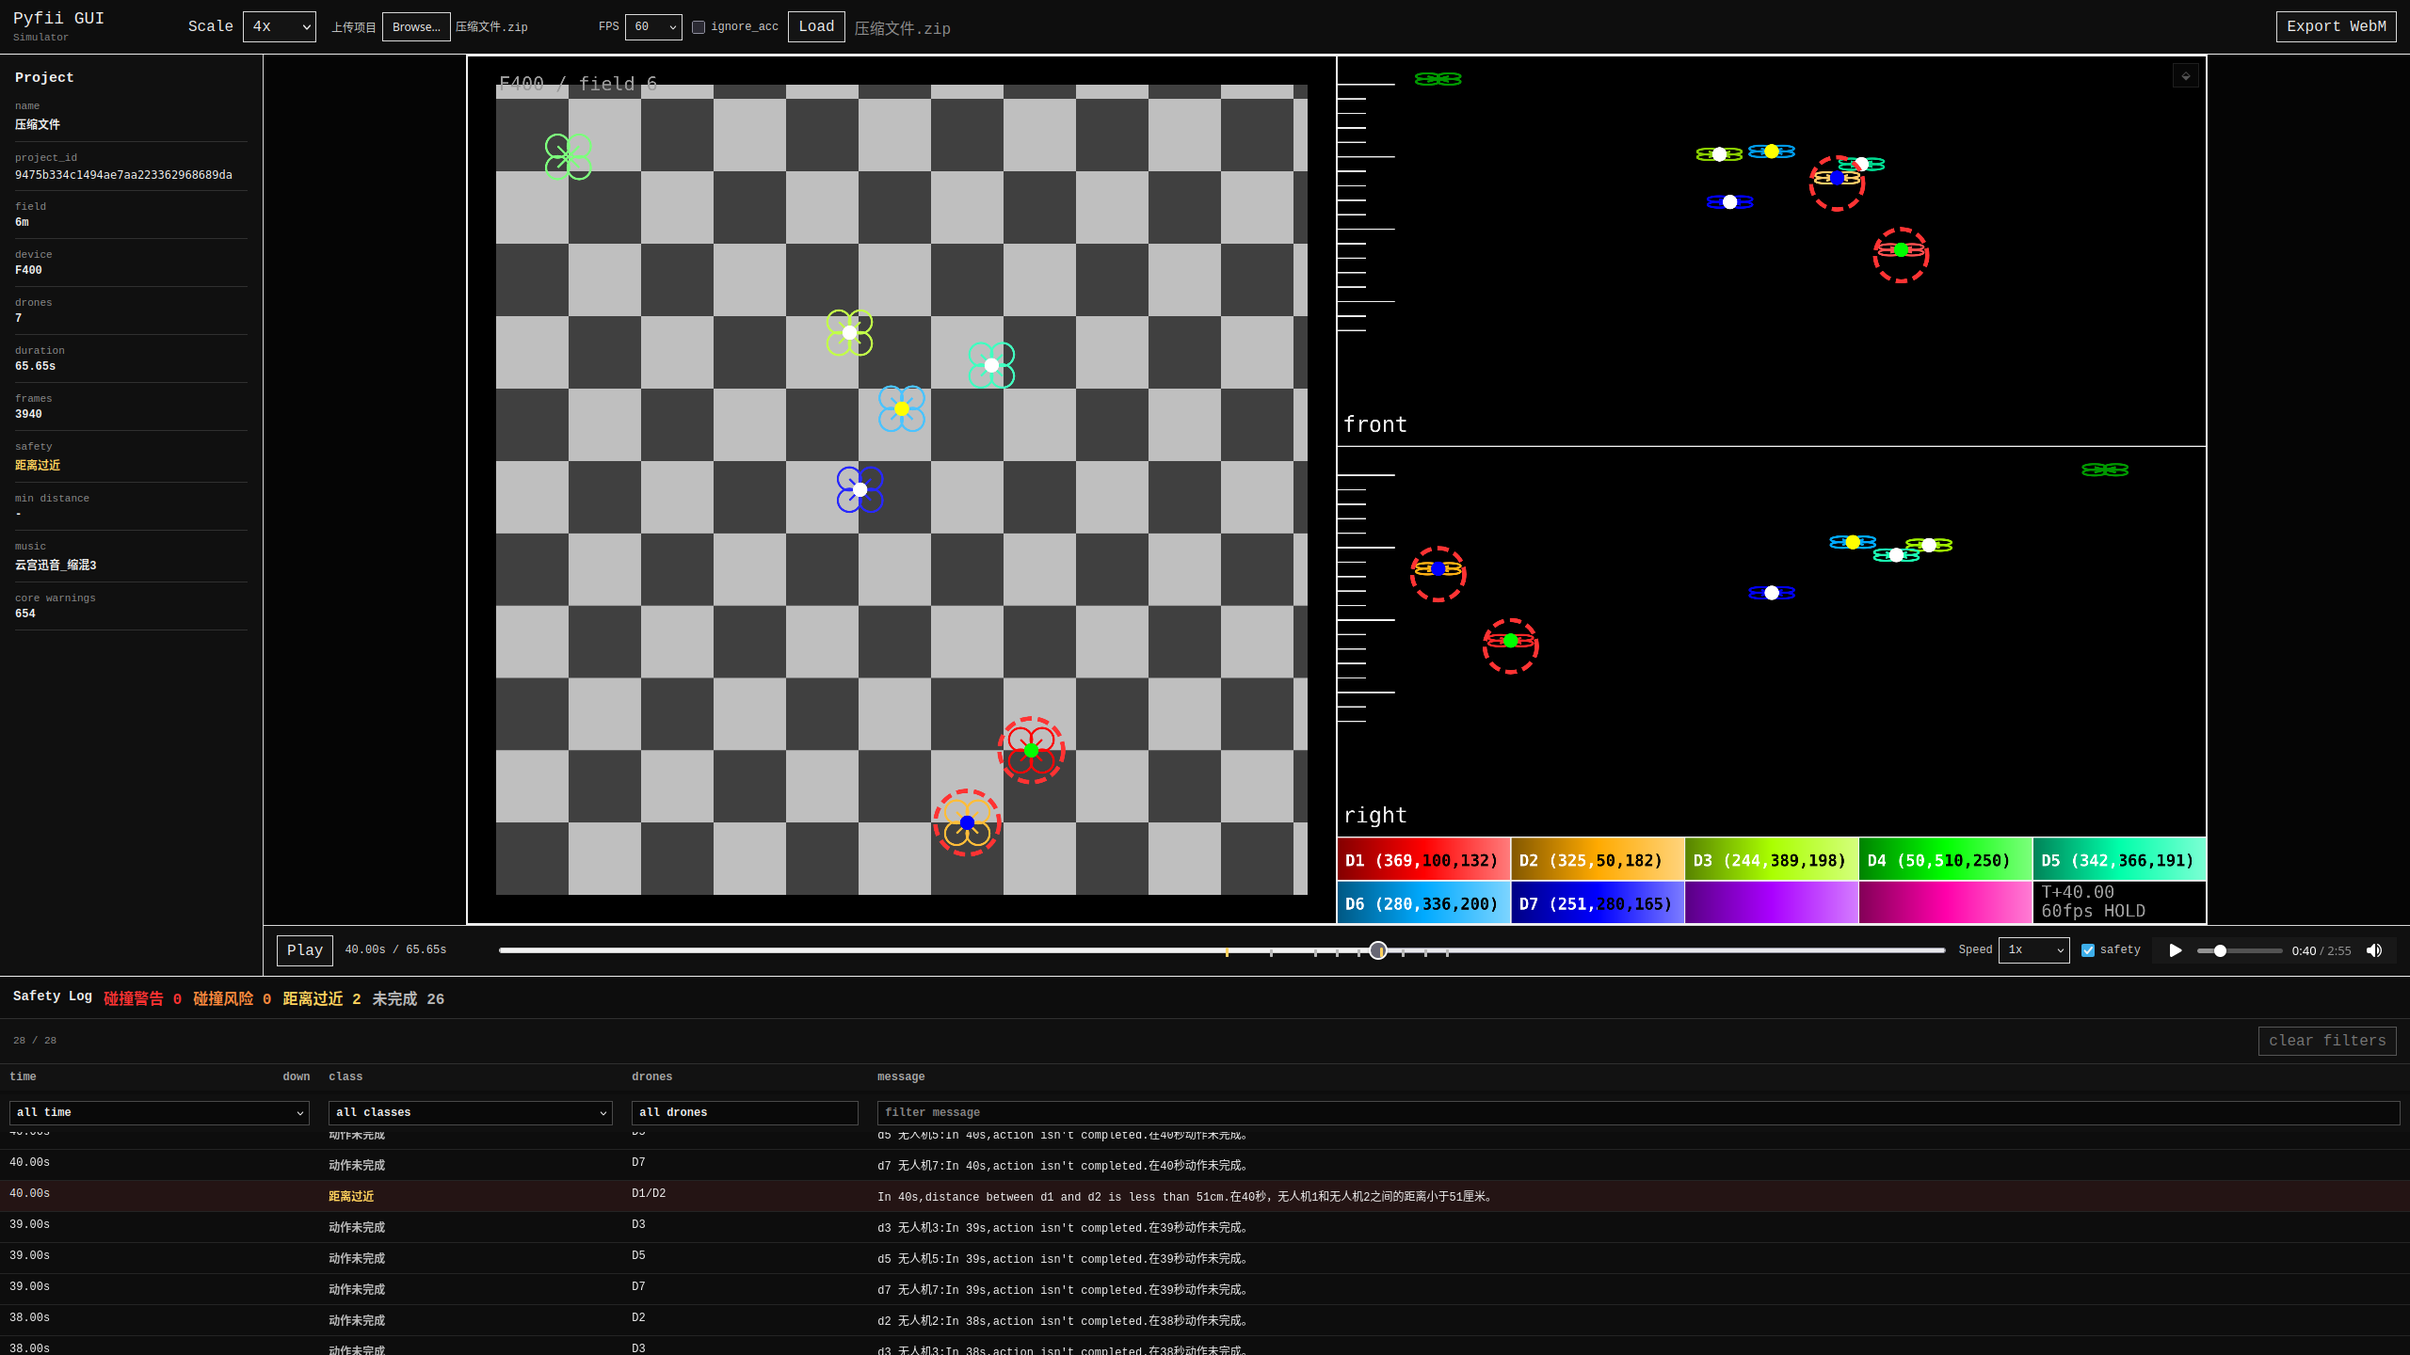
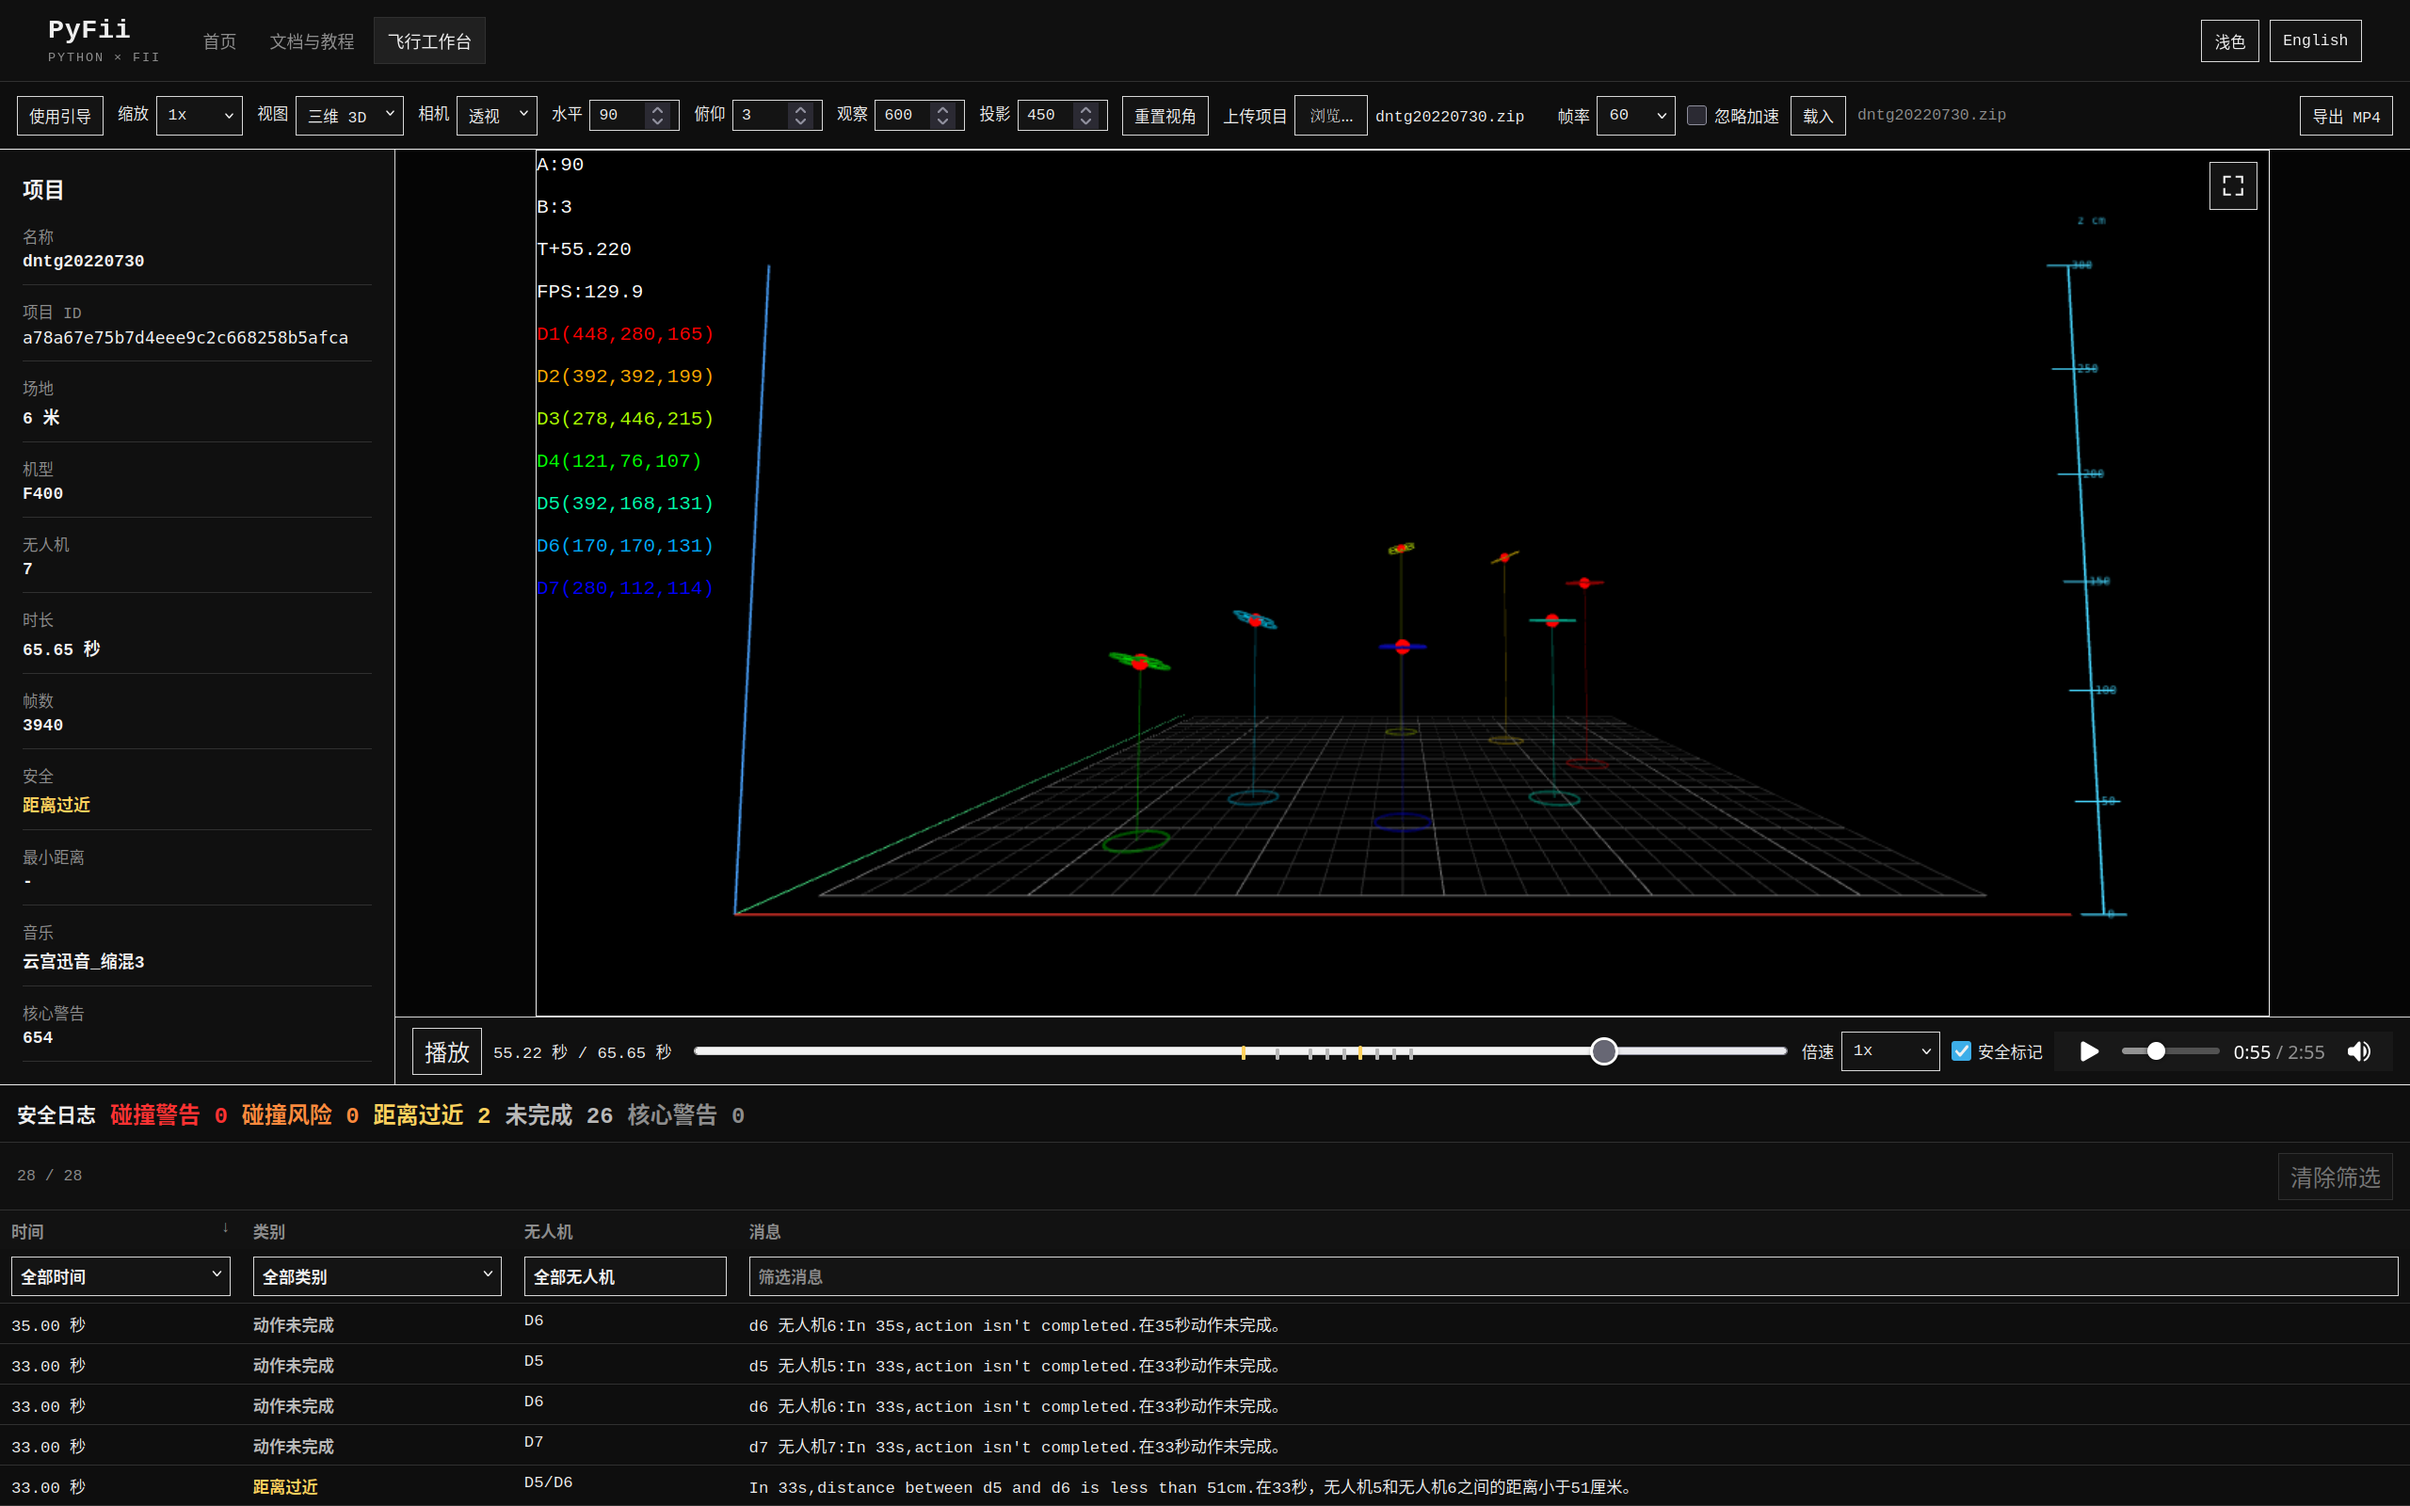
docs: refresh project overview and GUI screenshot

diff --git a/README.md b/README.md
@@ -1,111 +1,156 @@
-# Pyfii
+# PyFii
 
-## 简介
+PyFii 是一个用 Python 编排、生成和检查 Fii 无人机编队工程的开源项目。它把原本需要逐块拖动的动作、灯光和时间轴编排写成可复用的 Python 脚本，并提供 `.fii` 工程读写、轨迹解析、安全检查、二维/三维模拟和视频导出。
 
-这个库的功能是可以让我们用 python 写 Fii 的无人机程序，以解决原软件无运算能力，无循环模块，一块块拖太烦等问题。此外，这个库有三视图模拟飞行的功能，模拟飞行更方便观看。
+项目由两个相互独立的部分组成：
 
-### Pyfii GUI（网页版）
+- `src/pyfii/`：可单独安装和使用的 Python core。
+- `apps/pyfii-gui/`：建立在 core 之上的 Web GUI，不把 FastAPI、Vue 等依赖引入 core。
 
-`apps/pyfii-gui/` 是 pyfii 的 Web GUI，已成功部署上线：**[pyfii.cn](https://pyfii.cn/)**
+## 在线使用
 
-首页是 PyFii 门户；统一文档与教程中心位于 `/docs`，飞行工作台位于 `/studio`。
+**[pyfii.cn](https://pyfii.cn/)** 已部署当前仓库的最新 GUI 版本，不安装本地环境也可以阅读文档或使用飞行工作台。
 
-![Pyfii GUI 截图](docs/images/pyfii-gui-screenshot.png)
+- [首页](https://pyfii.cn/)：了解项目、观看视频教程并进入各项功能。
+- [文档与教程](https://pyfii.cn/docs)：浏览仓库 `doc/` 中的完整文档。
+- [飞行工作台](https://pyfii.cn/studio)：上传完整 Fii 工程 zip，检查并预览编队飞行。
+- [B 站视频教程](https://www.bilibili.com/video/BV1Ms4y1F7fM/)：通过实际演示了解基本操作。
 
-支持功能：
+在线工作台支持：
 
-- **二维三视图模拟**：top / front / right 三个视角实时预览无人机编队飞行轨迹
-- **加速度感知模拟**：模拟基于实际加速度数据，真实还原无人机飞行动态
-- **清晰的 error / warning 展示**：距离、动作未完成和其他 core warning 分开展示，支持按列筛选和排序，点击带时间事件可跳转
-- 门户页提供项目简介、GitHub 入口和 B 站视频教程；备案信息保持部署配置为空时不显示
-- 上传 Fii 项目 zip，由 FastAPI 后端调用 pyfii core 完成轨迹解析和安全分析，浏览器提供可视化预览
-- 首次使用 Guide，以及直接复用 `doc/` 下全部 Markdown 源的文档、教程、编舞与 Agent、工程研究静态页
-- 复用 core `FiiRender2D/FiiRender3D` 的后端 MP4 导出
+- 二维三视图和 WebGL 三维模拟，包含加速度投影、机身倾斜和连续航向旋转。
+- 根据手机、平板和桌面设备调整布局，并在移动端保留三维坐标信息。
+- 显示确定的工程加载进度，并提供首次使用引导和全屏预览。
+- 区分会阻止操作的 error 与不阻止预览的 warning；未拼接积木等 core warning 会直接展示。
+- 在浏览器中完成交互预览，由后端复用 core 渲染器导出 MP4；工程包含音乐时使用 FFmpeg 合并音频。
 
-GUI 作为 pyfii core 的上层应用，依赖方向为：
+![PyFii GUI 截图](docs/images/pyfii-gui-screenshot.png)
 
-```text
-pyfii-gui -> pyfii core
+GUI 的本地开发、生产依赖和部署配置见 [apps/pyfii-gui/README.md](apps/pyfii-gui/README.md)。
+
+## 主要能力
+
+- 使用 Python API 编排 F400、F600 等 Fii 无人机的动作、灯光和时间轴。
+- 生成 Fii 工程，也可以读回 `.fii` 文件和动作组 XML。
+- 通过 `DroneTrack` 统一承载解析后的轨迹、灯光和飞行信息。
+- 使用 `FiiRender2D`、`FiiRender3D` 和 `FiiRenderPanorama` 预览或保存画面。
+- 保留原有 `show()`、`fiiRead()` 等兼容入口，现有脚本无需立即迁移。
+- 在预览和导出前检查距离、动作完整性等安全问题，并分别报告 error 与 warning。
+
+模拟与安全检查用于编排复核，不能替代真机测试、现场安全评估和 Fii 官方软件的最终检查。
+
+## 快速开始
+
+### 安装 core
+
+安装已发布版本：
+
+```bash
+python -m pip install pyfii
 ```
 
-FastAPI、Vue、Vite 等 GUI 依赖都放在 `apps/pyfii-gui/` 下，不放进 `src/pyfii/`。详细启动和部署说明见 [apps/pyfii-gui/README.md](apps/pyfii-gui/README.md)。
+从源码使用当前版本：
 
-## 安装
-1. 使用 pip install 安装
+```bash
+git clone https://github.com/Kevin0412/pyfii.git
+cd pyfii
+python -m pip install -e .
+```
 
-    在命令行输入
+仓库采用 `src/` 布局。开发时使用 editable install，可以确保依赖、导入路径和版本元数据正确。
 
-        pip install pyfii
+### 编写并预览一个工程
 
-2. 下载源代码
+```python
+import pyfii as pf
 
-    在命令行输入
+drone = pf.Drone(60, 60, config=pf.drone_config_4m)
+drone.takeoff(1, 100)
+drone.inittime(4)
+drone.VelXY(100, 200)
+drone.move2(120, 120, 100)
+drone.inittime(8)
+drone.land()
+drone.end()
 
-        git clone https://github.com/Kevin0412/pyfii.git
-        cd pyfii
-        python -m pip install -e .
+project = "output/demo"
+pf.Fii(project, [drone]).save()
 
-    仓库使用 `src/` 布局，不要只复制仓库中的某个文件夹；使用 editable install 才能确保依赖和版本元数据正确。
+track = pf.from_fii(project)
+pf.show(track)
+```
 
-## 文档索引
+完整的动作、灯光、工程生成和渲染接口见 [PyFii core 文档](doc/doc_zh_CN.md)。
 
-- [文档与教程中心](doc/pyfii_docs.md)：普通用户从这里开始。
-- [PyFii core 文档](doc/doc_zh_CN.md)：动作、工程、读取和渲染接口。
+### 本地启动 GUI
+
+Linux 下可从仓库根目录一键安装依赖并启动前后端：
+
+```bash
+./apps/pyfii-gui/start.sh
+```
+
+依赖已经安装时可以跳过安装：
+
+```bash
+./apps/pyfii-gui/start.sh --no-install
+```
+
+默认前端地址是 `http://localhost:5173`，后端地址是 `http://localhost:8000`。每次运行的前后端日志会分别保存到 `apps/pyfii-gui/logs/<启动时间>-<进程号>/`，每行包含本地时间和时区。
+
+## 文档
+
+- [文档与教程中心](doc/pyfii_docs.md)：普通用户的阅读入口。
+- [安装教程](doc/tutorial/install.md)：Python、编辑器与 PyFii 安装。
+- [脚本模式教程](doc/tutorial/script_mode.md)：从动作脚本到 Fii 工程。
+- [PyFii core 文档](doc/doc_zh_CN.md)：动作、灯光、工程、读取与渲染 API。
 - [GUI 使用引导](doc/pyfii_gui_guide.md)：上传、warning、预览和视频导出。
-- [GUI 架构与部署](doc/pyfii_gui.md)：开发、配置和生产部署。
-- [内部原理](doc/tutorial/principle.md)：面向维护或复刻项目的开发者。
-- [仓库完整文档索引](doc/INDEX.md)：编舞与 Agent、工程研究及全部专题资料。
+- [GUI 架构与部署](doc/pyfii_gui.md)：开发、配置、依赖和生产部署。
+- [内部原理](doc/tutorial/principle.md)：面向维护者的格式与实现说明。
+- [完整文档索引](doc/INDEX.md)：编舞、Choreo Agent、工程研究和其他专题资料。
 
-## 目录结构说明
+线上 [文档与教程](https://pyfii.cn/docs) 直接使用仓库中的文档源；文档修改随 GUI 新版本一起发布，避免维护另一份内容副本。
 
-    src/pyfii
-    ├── cv3d
-    │   ├── IIID2.py
-    │   ├── IIID.py
-    │   └── transfer.py
-    ├── drone.py
-    ├── fii.py
-    ├── fii_parser.py
-    ├── xml_parser.py
-    ├── read.py
-    ├── fiiRead.py
-    ├── show.py
-    └── __init__.py
+## 仓库结构
 
-项目结构 (核心部分) 如上图
+```text
+pyfii/
+├── src/pyfii/               # Python core、工程读写、解析和渲染
+├── apps/pyfii-gui/          # Vue 前端与 FastAPI 后端
+├── doc/                     # 用户文档、教程和研究资料
+├── tools/choreo_agent/      # AI 编舞实验与工具
+├── tests/                   # core 测试
+└── output/                  # 示例与本地生成的 Fii 工程
+```
 
-其中 cv3d 是使用 OpenCV 实现的 3d 图形库
+core 中的重要入口：
 
-drone.py 定义了 Drone 类，实现无人机的基本指令
+- `drone.py`：无人机动作和灯光指令。
+- `fii.py`：组织无人机与音乐并保存 Fii 工程。
+- `fii_parser.py`、`xml_parser.py`：树形解析 `.fii` 和动作组 XML。
+- `read.py`：兼容读取入口与轨迹计算。
+- `fiiRead.py`：`DroneTrack` 和二维/三维渲染器。
+- `show.py`：保留旧调用方式的预览兼容入口。
 
-fii.py 定义了 Fii 类，保存无人机和音乐，并能将其保存为*.fii 文件
+## GUI 部署提示
 
-fii_parser.py 和 xml_parser.py 负责树形 XML 解析，read.py 负责兼容入口和轨迹计算
+- 后端需要 Python 3.9 或更高版本；前端构建需要符合当前 lockfile 要求的 Node.js 和 npm。
+- 导出无声 MP4 使用 OpenCV；工程包含音乐时还需要系统中的 `ffmpeg`。Ubuntu 可运行 `sudo apt install ffmpeg`。
+- 备案信息来自部署实例自己的 `deploy.json` 或环境变量，默认关闭且不显示，真实备案号不会提交到仓库。
+- 当前后端不依赖数据库或任务队列，上传工程和导出任务状态保存在单个后端进程内。
+- 生产环境应构建并托管前端 `dist/`，使用 Nginx、Caddy 等服务器反向代理 `/api`，不要使用 Vite 开发服务器代替生产静态服务。
 
-fiiRead.py 封装 DroneTrack 与二维/三维渲染器，show.py 提供兼容的预览入口
-
-GUI 位于 `apps/pyfii-gui/`，详细结构见 [apps/pyfii-gui/README.md](apps/pyfii-gui/README.md)。
-
-## 许可证和作者
-
-- 许可证：GNU General Public License v3 (GPLv3)
-
-- 作者：
-
-    主要作者：github@Kevin0412
-
-    代码开发，无人机测试，编写说明文档，在 bilibili.com 上传演示视频等工作
-
-    次要作者：github@miaooo0000OOOO
-
-    上传模块到 pypi，debug，无人机测试，写这个 README
+详细安装命令、Ubuntu 依赖、配置项和反向代理方式见 [GUI 部署文档](apps/pyfii-gui/README.md#生产部署依赖)。
 
 ## 项目方向
 
-pyfii 2.0 的重点不是简单 Web 化，而是把编队核心、轨迹采样、安全审查、渲染/预览拆成可替换模块。`apps/pyfii-gui/` 是这一方向的 Web 实现，已部署上线，core 仍然保持独立 PyPI 库定位。
+项目继续保持“编队 core、轨迹与安全检查、渲染、上层应用”之间的清晰边界。近期工作包括统一 `DroneTrack` 渲染入口、保留旧路径兼容、完善 Web GUI，以及使用本地读回、密采样和安全检查验证 Choreo Agent 生成的编舞结果。
 
-- `pyfii-core`：`.fii` 读写、动作 DSL、轨迹采样、灯光时间轴、安全规则。
-- `pyfii-render`：统一渲染接口，保留 OpenCV 参考后端，并试验桌面 3D / Web viewer。
-- `pyfii-app`：面向实际调试的交互式预览工具。
+这些是代码职责边界，不代表仓库中已经存在名为 `pyfii-core`、`pyfii-render` 或 `pyfii-app` 的独立发行包。
 
-AI 编舞探索、人工/AI 产物蒸馏和 Cannon 复盘共同构成 Choreo Agent 的研究资料，入口见 [仓库完整文档索引](doc/INDEX.md)；当前主线是强模型生成 motion brief / phrase spec / PyFii 脚本，再由本地读回、密采样、安全检查和 2D/3D 视频验收。
+## 许可证与作者
+
+本项目使用 [GNU General Public License v3.0](LICENSE)。
+
+- 主要作者：[Kevin0412](https://github.com/Kevin0412)
+- 贡献者：[miaooo0000OOOO](https://github.com/miaooo0000OOOO)
